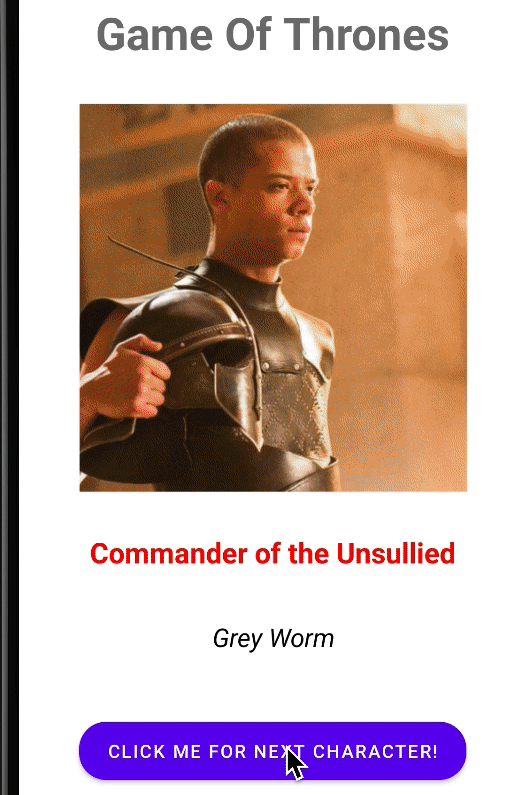
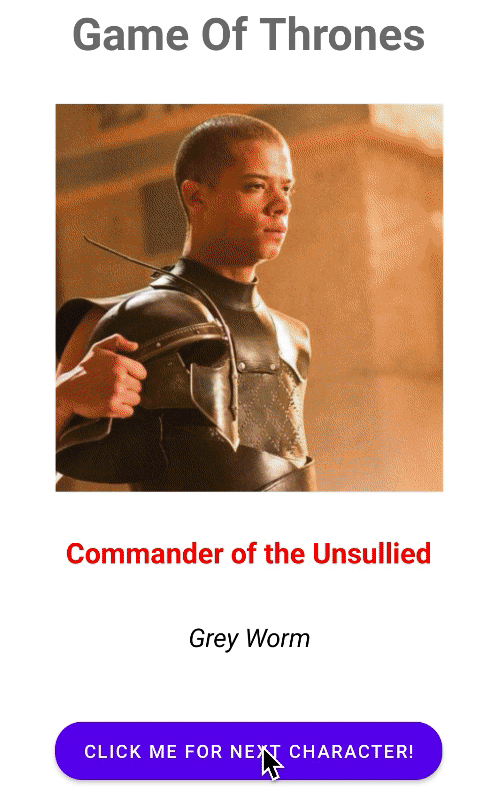
made responsive for smaller screen

diff --git a/index.html b/index.html
@@ -62,7 +62,7 @@
     </section>
 
     <!-- ABOUT SECTION -->
-    <section class="about">
+    <section id="about">
         <p class="section_text_p1">Get to know More</p>
         <h1 class="title">About Me</h1>
         <div class="section-container">
@@ -214,10 +214,20 @@
                 <div class="details-container color-container">
                     <div class="article-container">
                         <img src="assets/GOT.png" alt="Project One" class="project-img">
-                        <h2 class="experience-sub-title project-title">GameOfThrone App</h2>
+                        <h2 class="experience-sub-title project-title">Api Caller</h2>
                         <div class="btn-container">
                             <button class="btn btn-color-2 project-btn" onclick="location.href='https://github.com/Android-Group-1-App-development/WeatherMate_groupProject'">Github</button>
                             <button class="btn btn-color-2 project-btn" onclick="location.href='https://github.com/Nt-16/gameOfThroneCharacterAPI'">Live Demo</button>
+                        </div>
+                    </div>
+                </div>
+                <div class="details-container color-container">
+                    <div class="article-container">
+                        <img src="assets/tipcalc.png" alt="Project One" class="project-img">
+                        <h2 class="experience-sub-title project-title">Tip Calculator</h2>
+                        <div class="btn-container">
+                            <button class="btn btn-color-2 project-btn" onclick="location.href='https://github.com/Nt-16/basicTipCalculator'">Github</button>
+                            <button class="btn btn-color-2 project-btn" onclick="location.href='https://github.com/Nt-16/basicTipCalculator'">Live Demo</button>
                         </div>
                     </div>
                 </div>
@@ -228,7 +238,7 @@
         <img src="/assets/arrow.png" alt="Arrow icon" class="icon Arrow" onclick="location.href='/#experience'">
     </section>
 
-    <section id="contact">
+    <section id="contacts">
         <p class="section_text_p1">Get in Touch</p>
         <h1 class="title">Contact Me</h1>
         <div class="contact-information-upper-container">

diff --git a/mediaqueries.css b/mediaqueries.css
@@ -1,3 +1,17 @@
+@media screen and (max-width: 1400px) {
+    #profile{
+        height: 83vh;
+        margin-bottom: 6rem;
+    }
+    .about-container{
+        flex-wrap: wrap;
+    }
+    #contact, #projects{
+        height: fit-content;
+    }
+}
+
+
 @media screen and (max-width: 1200px) {
     #desktop-nav{
         display: none;
@@ -5,4 +19,85 @@
     #hamburger-nav{
         display: flex;
     }
+    #experience,  .experience-details-container{
+        margin-top: 2rem;
+
+    }
+    #profile, .section-container{
+        display: block;
+    }
+    .Arrow{
+        display: none;
+    }
+    section{
+        margin: 0 5%;
+    }
+    section, .section-container{
+        height: fit-content;
+    }
+    .section_pic-container{
+        width: 275px;
+        height: 275px;
+        margin: 0 auto 2rem;
+    }
+    .about-container{
+        margin-top: 0;
+
+    }
+
+
+}
+
+@media screen and (max-width: 600px) {
+    #contact, footer {
+        height: 40vh;
+    }
+
+    #profile{
+        height: 83vh;
+        margin-bottom: 0;
+    }
+    article{
+        font-size: 1rem;
+    }
+    footer nav{
+        height: fit-content;
+        margin-bottom: 2rem ;
+
+    }
+    .about-container, .contact-information-upper-container, .btn-container{
+        flex-wrap: wrap;
+    }
+    .contact-information-upper-container{
+        margin:0;
+    }
+    .contact-information-upper-container, .nav-links li a {
+        font-size: 1rem;
+    }
+    .experience-sub-title{
+        font-size: 1.25rem;
+    }
+    .logo{
+        font-size: 1.5rem;
+    }
+    .nav-links{
+        flex-direction: column;
+        gap: 0.5rem;
+        text-align: center;
+    }
+    .section_pic-container{
+        width: auto;
+        height: 46vw;
+        justify-content: center;
+    }
+    .section_text_p2{
+        font-size: 1.25rem;
+    }
+    .title{
+        font-size: 2rem;
+    }
+    .text-container{
+        text-align: justify;
+    }
+
 }

diff --git a/style.css b/style.css
@@ -369,8 +369,8 @@ article .icon{
 
  .project-img{
     border-radius: 2rem;
-    width: 400px;
-    height:375px;
+    width: 80%;
+    height:80%;
 
  }
 
@@ -381,7 +381,7 @@ article .icon{
 
  /* CONTACT  SECTION*/
 
- #contact{
+ #contacts{
     display: flex;
     justify-content: center;
     flex-direction: column;
